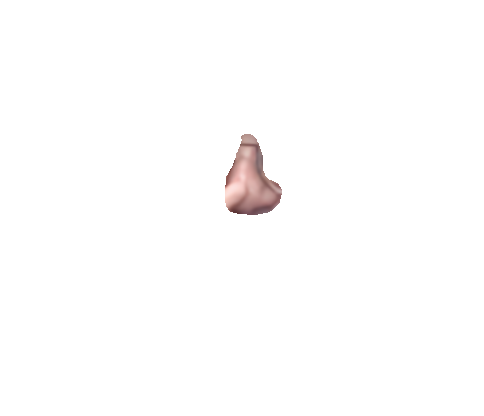
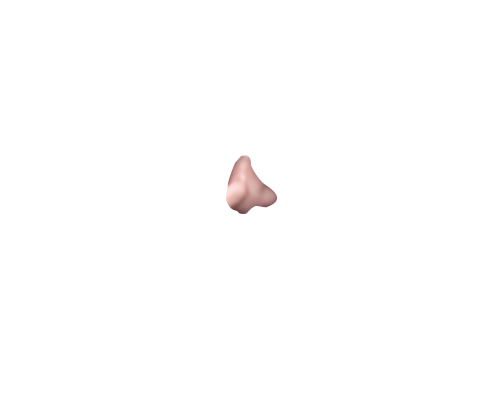
update

Changed region(s): [[0.4649, 0.3125, 0.5888, 0.5312]]

diff --git a/app.js b/app.js
@@ -3,14 +3,26 @@ const ctx = canvas.getContext("2d");
 const img = new Image();
 img.src = "kaneKo.png";
 const nose = new Image();
-nose.src = "KoTrans.png";
+nose.src = "Ko.png";
 let i = 0;
 function enlarge() {
     ctx.clearRect(0, 0, canvas.width, canvas.height);
     ctx.drawImage(img, 718, 332, 484, 416);
     ctx.drawImage(nose, 718-i/2, 332-i/2, 484+i, 416+i);
-    console.log("as");
     i+=2;
 }
 
-const enlargeNose = setInterval(enlarge, 1);
+
+
+canvas.addEventListener("click", function(e) {
+    clearInterval(start)
+    const enlargeNose = setInterval(enlarge, 1);
+})
+
+ctx.drawImage(img, 718, 332, 484, 416);
+
+function draw() {
+    ctx.drawImage(img, 718, 332, 484, 416);
+}
+
+const start = setInterval(draw, 1);

diff --git a/style.css b/style.css
@@ -7,4 +7,8 @@
 #output {
     width: 960px;
     height: 540px;
+    position: absolute;
+    left: 50%;
+    top: 50%;
+    transform: translate(-50%, -50%);
 }
